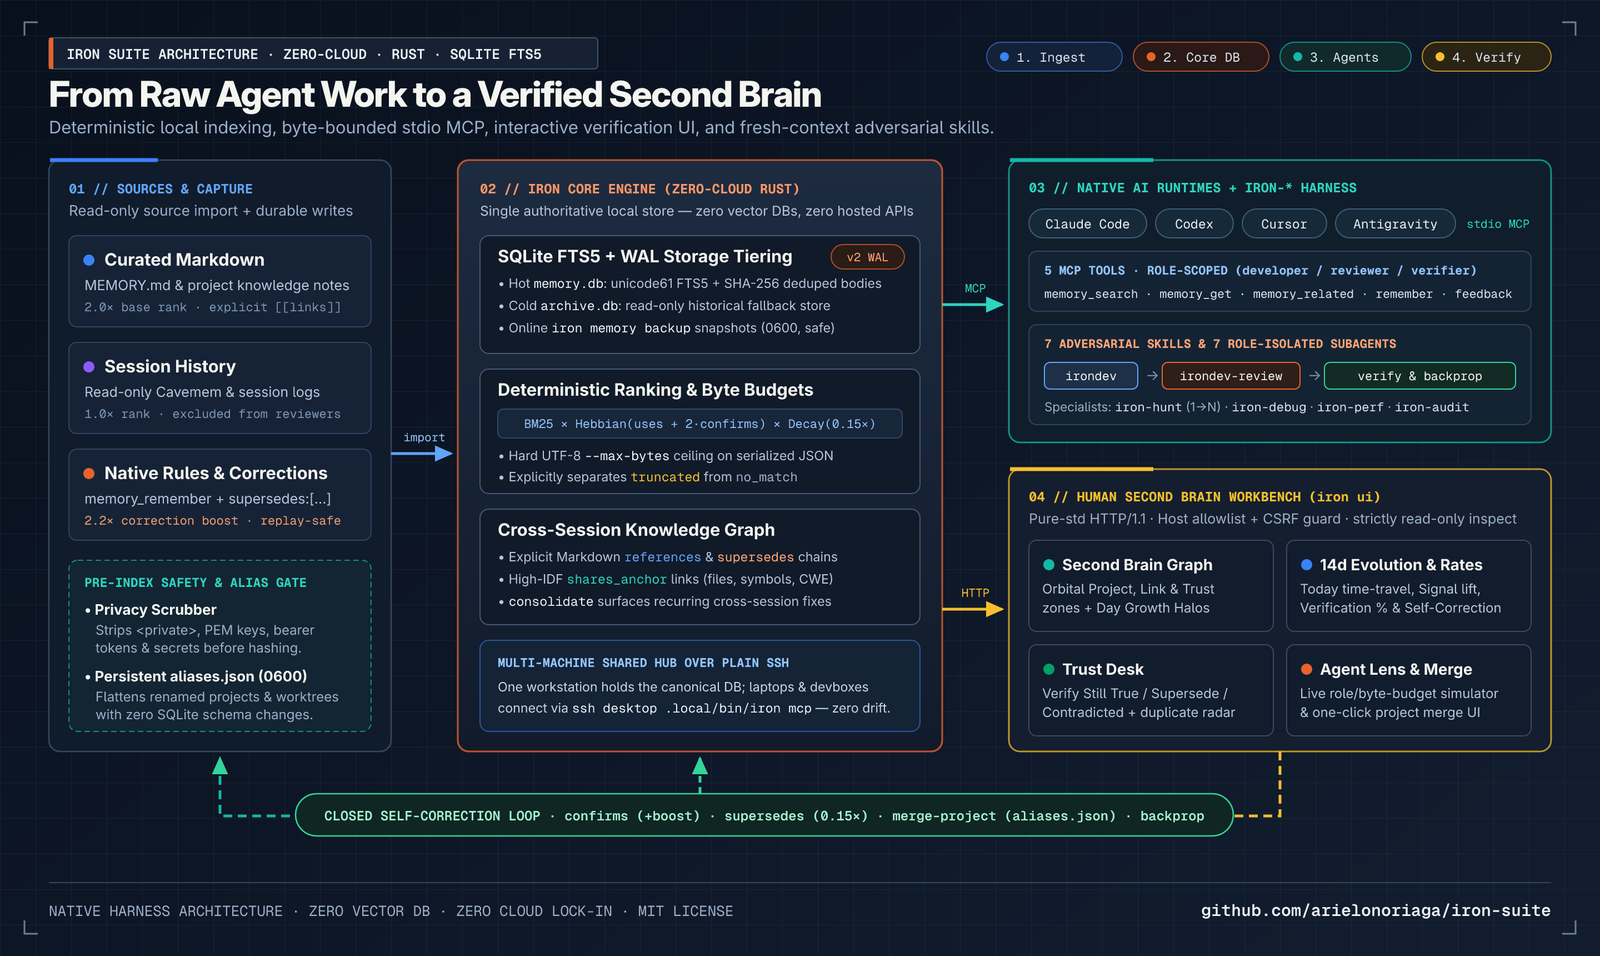
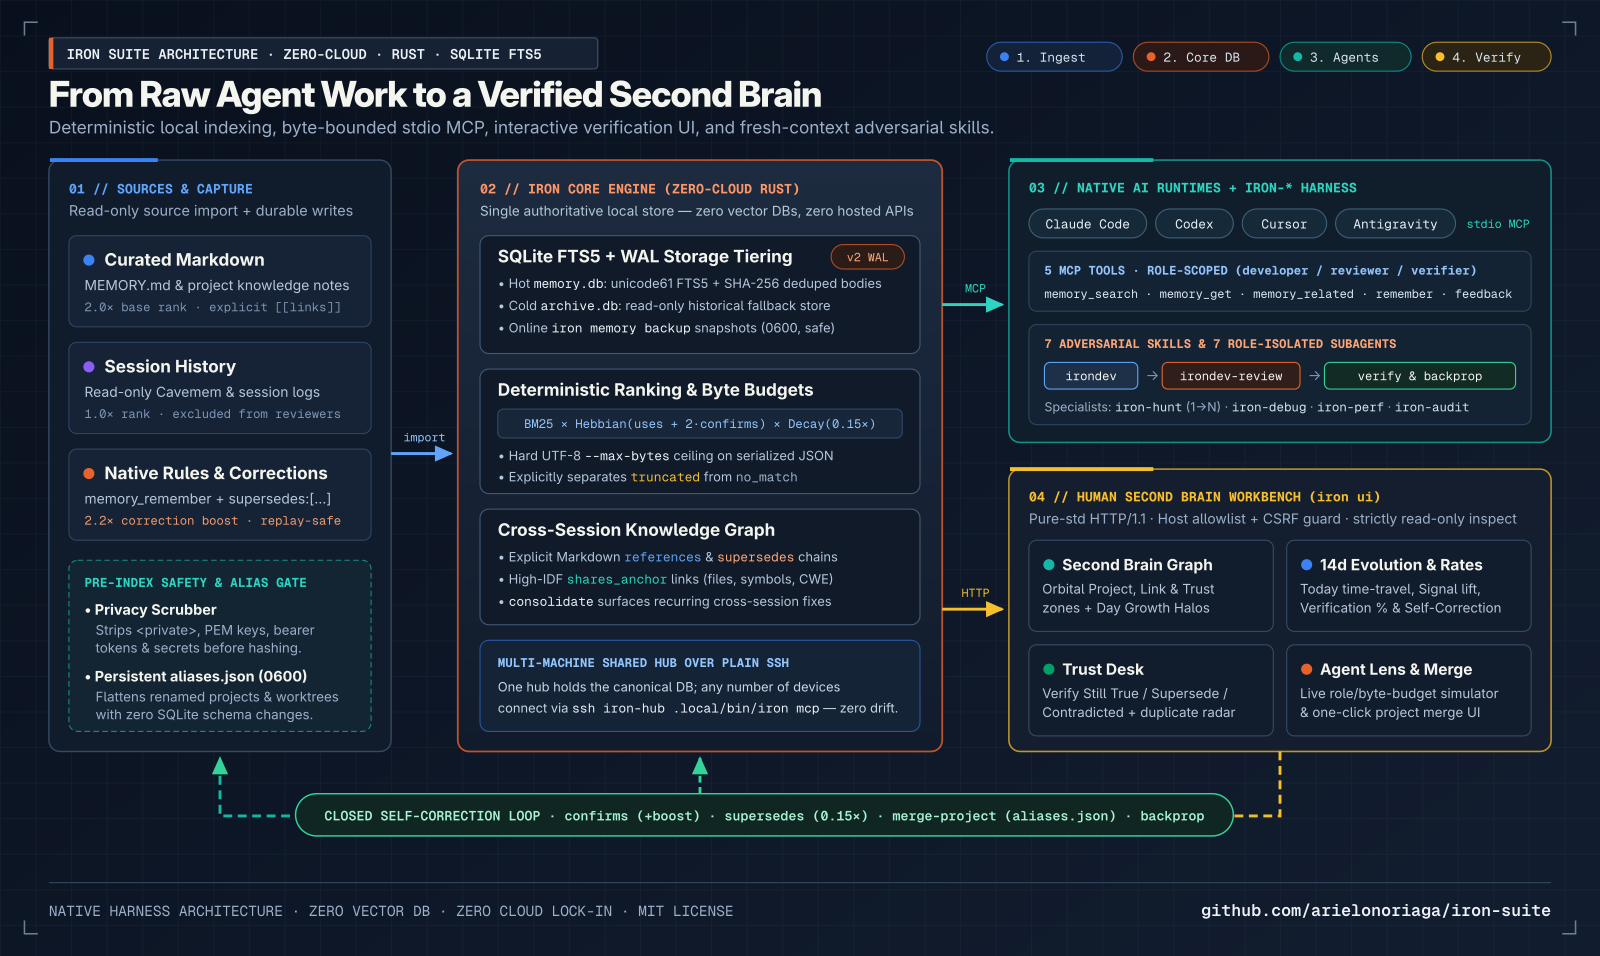
docs: describe one hub with any number of devices and drop machine-specific names
Generic hub alias in docs and diagram, per-device system graph and shared verified pairs documented, cavemem push script renamed to iron-sync-cavemem-to-hub with a required IRON_HUB_HOST, graph refresh timer units shipped. Bump to 0.3.2.

Changed region(s): [[0.3125, 0.6977, 0.5625, 0.7584]]

diff --git a/tests/cli.rs b/tests/cli.rs
@@ -339,7 +339,7 @@ fn mcp_native_save_is_visible_to_cli_and_survives_source_refresh() {
     let messages = [
         json!({"jsonrpc":"2.0","id":1,"method":"initialize","params":{"protocolVersion":"2025-06-18","capabilities":{},"clientInfo":{"name":"antigravity-fixture","version":"1"}}}),
         json!({"jsonrpc":"2.0","method":"notifications/initialized"}),
-        json!({"jsonrpc":"2.0","id":2,"method":"tools/call","params":{"name":"memory_remember","arguments":{"title":"Shared orbit decision","content":"The orbitmarker belongs in one desktop hub.","project":"alpha","agent":"antigravity","kind":"decision"}}}),
+        json!({"jsonrpc":"2.0","id":2,"method":"tools/call","params":{"name":"memory_remember","arguments":{"title":"Shared orbit decision","content":"The orbitmarker belongs in one shared hub.","project":"alpha","agent":"antigravity","kind":"decision"}}}),
         json!({"jsonrpc":"2.0","id":3,"method":"tools/call","params":{"name":"memory_search","arguments":{"query":"orbitmarker","project":"alpha","strict_project":true}}}),
     ];
     let mut input = child.stdin.take().unwrap();
@@ -378,7 +378,7 @@ fn mcp_native_save_is_visible_to_cli_and_survives_source_refresh() {
             "--title",
             "Shared orbit decision",
             "--content",
-            "The orbitmarker belongs in one desktop hub.",
+            "The orbitmarker belongs in one shared hub.",
             "--project",
             "alpha",
             "--agent",

diff --git a/src/import.rs b/src/import.rs
@@ -943,7 +943,7 @@ mod tests {
     }
 
     #[test]
-    fn desktop_and_laptop_personal_project_aliases_follow_the_shared_harness() {
+    fn personal_project_aliases_resolve_the_same_on_every_device_layout() {
         assert_eq!(
             scope_for_path(Path::new("/home/dev/Projects/commerce-core")).unwrap(),
             "commerce-core"

diff --git a/docs/ssh-hub-rollout.md b/docs/ssh-hub-rollout.md
@@ -1,8 +1,8 @@
-# Shared SSH Hub & Multi-Agent Rollout
+# Shared SSH Hub & Multi-Device Rollout
 
-Iron Memory supports both **single-machine stdio** and a **zero-cloud multi-machine hub over SSH** where one workstation (`desktop`) holds the authoritative SQLite FTS5 + WAL store and secondary laptops/devboxes connect via `ssh stdio`.
+Iron Memory runs on a **single machine over stdio**, or as a **zero-cloud hub over SSH** for any number of devices: one hub host (called `iron-hub` below; use any SSH alias) keeps the authoritative SQLite FTS5 + WAL store, and every other device connects through `ssh stdio`. Nothing assumes a fixed number or kind of device.
 
-## 1. Authoritative Host Setup (`desktop`)
+## 1. Hub host setup
 
 ```sh
 # Import existing Markdown memories (and optional Cavemem SQLite history)
@@ -23,19 +23,31 @@ systemctl --user daemon-reload
 systemctl --user enable --now iron-memory-refresh.timer iron-memory-backup.timer
 ```
 
-## 2. Remote Client Setup (`laptop` -> `desktop` over SSH)
+## 2. Every other device
 
-Configure Claude Code, Codex, Cursor, or Antigravity on any secondary machine to invoke `iron mcp` over SSH:
+Configure Claude Code, Codex, Cursor, or Antigravity on each device to invoke `iron mcp` on the hub over SSH:
 
 ```json
 {
   "mcpServers": {
     "iron-memory": {
       "command": "ssh",
-      "args": ["-T", "-o", "BatchMode=yes", "-o", "ConnectTimeout=12", "desktop", ".local/bin/iron", "mcp"]
+      "args": ["-T", "-o", "BatchMode=yes", "-o", "ConnectTimeout=12", "iron-hub", ".local/bin/iron", "mcp"]
     }
   }
 }
 ```
 
 All `memory_remember` writes land immediately on the authoritative WAL database, and all `memory_search` / `memory_get` / `memory_related` queries observe the exact same committed state without vector servers, sync conflicts, or exposed HTTP ports.
+
+With `install.sh --hooks`, set `IRON_REMOTE_HOST=iron-hub` in the Claude Code environment of devices without a local `memory.db`: memory files read on that device are credited on the hub. Paths under any user's `~/.claude/` are mapped onto the hub's own `~/.claude/`, so home directories and usernames may differ per device.
+
+Optional history push: `integration/iron-sync-cavemem-to-hub.{sh,service,timer}` copies a consistent Cavemem snapshot to the hub (`IRON_HUB_HOST` is required; each device writes `sources/<hostname>-cavemem.db`).
+
+## 3. System graph on N devices
+
+The memory store is shared; the system graph is **per device**, built from that device's own checkouts so it reflects uncommitted work and works offline:
+
+1. Copy `integration/system-graph.example.json` to `~/.local/share/iron/system-graph.json` on each device and set `repos_root` to where that device keeps its repositories. Service names and repo names stay the same everywhere.
+2. Enable `integration/iron-graph-refresh.{service,timer}` on devices that are not the hub (the hub's memory refresh already refreshes its graph).
+3. Point `verified_pairs_file` at a path that your existing file sync shares between devices (a git-synced dotfiles repo, Syncthing, …), e.g. `~/.claude/verdicts/graph-pairs.jsonl`. `iron memory graph verify` appends the verified (caller chunk, handler chunk, contract) pairs; every refresh on every device applies them. Pairs are content hashes, so they match across devices whenever the code is identical. The file is append-only; a union merge (`*.jsonl merge=union` in `.gitattributes`) never conflicts.

diff --git a/README.md b/README.md
@@ -113,7 +113,7 @@ iron memory search 'tenant isolation' --project commerce-core --strict-project -
 
 # Save replay-safe notes/corrections & run nightly drift/contradiction consolidation
 iron memory remember --project iron-stack --agent claude --kind correction \
-  --supersedes mem_OLD_ID --title 'Shared memory hub' --content 'Desktop holds the authoritative store.'
+  --supersedes mem_OLD_ID --title 'Shared memory hub' --content 'One hub host holds the authoritative store.'
 iron memory sleep --repos-root ~/Projects
 
 # Launch the zero-dependency Second Brain & Trust Desk Web UI (loopback by default)
@@ -130,20 +130,20 @@ iron ui --port 7420
 - `memory_feedback` — reinforces `helpful` memories or demotes `outdated`/`contradicted` entries.
 
 #### Zero-Cloud Multi-Machine Hub over SSH
-Point laptops and remote devboxes at one workstation SQLite WAL store over plain SSH (no open ports, no sync conflicts):
+Run one hub host with the authoritative SQLite WAL store and point any number of other devices at it over plain SSH (no open ports, no sync conflicts):
 
 ```json
 {
   "mcpServers": {
     "iron-memory": {
       "command": "ssh",
-      "args": ["-T", "-o", "BatchMode=yes", "-o", "ConnectTimeout=12", "desktop", ".local/bin/iron", "mcp"]
+      "args": ["-T", "-o", "BatchMode=yes", "-o", "ConnectTimeout=12", "iron-hub", ".local/bin/iron", "mcp"]
     }
   }
 }
 ```
 
-See [docs/ssh-hub-rollout.md](docs/ssh-hub-rollout.md) and `integration/` for `systemd --user` timers.
+See [docs/ssh-hub-rollout.md](docs/ssh-hub-rollout.md) for running one hub with any number of devices (memory over SSH, a per-device system graph, verified pairs shared through any file sync) and `integration/` for `systemd --user` timers.
 
 ---
 

diff --git a/skills/iron-design/SKILL.md b/skills/iron-design/SKILL.md
@@ -46,7 +46,7 @@ Never hand over 1 "statistical average" layout or 3 color skins of the same scre
 - Propose **3 genuinely different mental models / interaction architectures** (e.g., *Unified Single-Screen Desk* vs *Chronological Multi-Stage Flow* vs *Mobile-First Triage Copilot*).
 - **Genetic Recombination (Gen-2 / Gen-3 Iteration):** When the owner responds to Gen-1 by combining traits of two directions (e.g., *"60% A + 30% C + mutations"*), breed **2 genuinely distinct offspring per pair** inside the same live UX Lab — never a single lukewarm blend — pairing the merged architecture with concrete structural mutations (e.g., *Fused Command Omnibox + 1-Tap Inline Action Drawer* vs *Collapsible Time-of-Day Lanes + Item-by-Item Checkoff*) so the owner can test evolutionary choices live.
 - Map **100% of inventoried features, dialogs, alerts, and backend invariants** (proving zero functional regression, naming which modals collapse inline or unify).
-- Serve the **isolated clickable HTTP UX Lab** (zero edits to the shipping repo; reachable from laptop, desktop, and real mobile phone on your local/Tailscale network) with:
+- Serve the **isolated clickable HTTP UX Lab** (zero edits to the shipping repo; reachable from any of your devices and a real mobile phone on your local/Tailscale network) with:
   - Shared live state across all proposals
   - Real custom UI components & crisp vector icons (zero raw browser-default controls, zero missing CSS classes, zero cartoon emojis in chrome)
   - Real backend invariants enforced interactively (locks, permission/branch guards, reservation/overdraw checks, Undo toasts)
